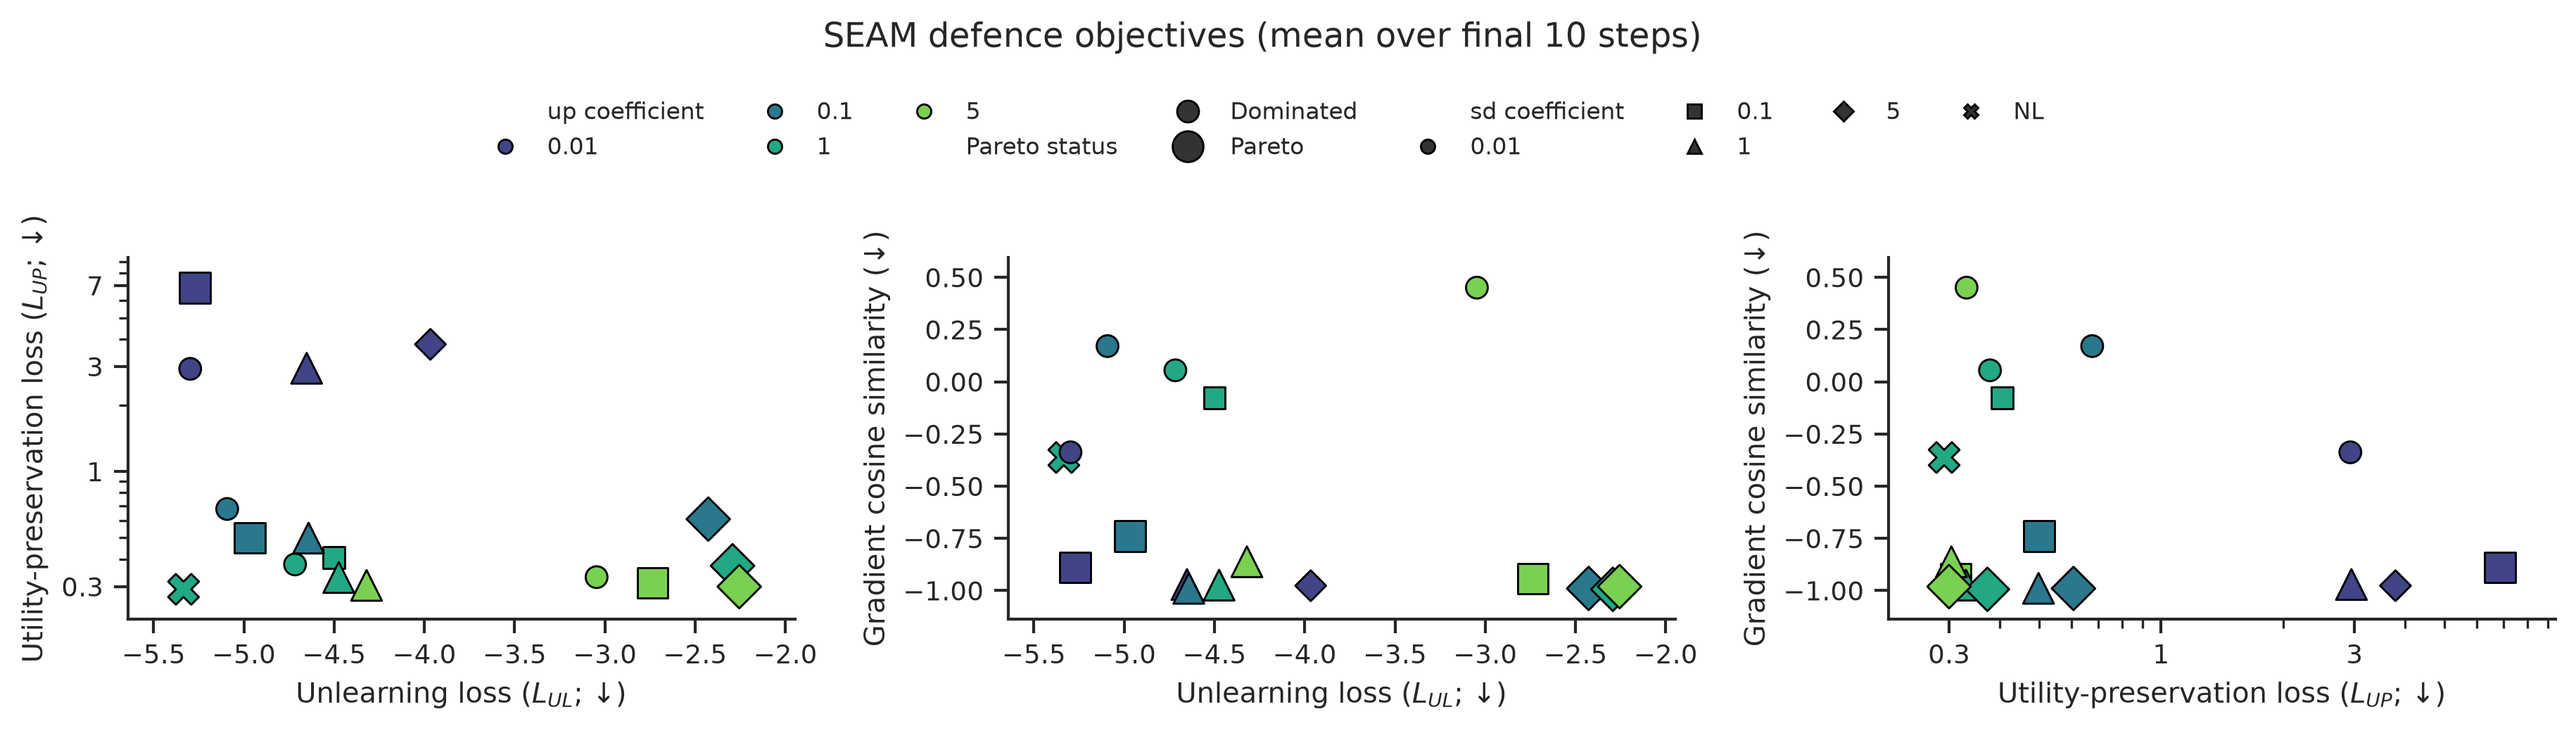
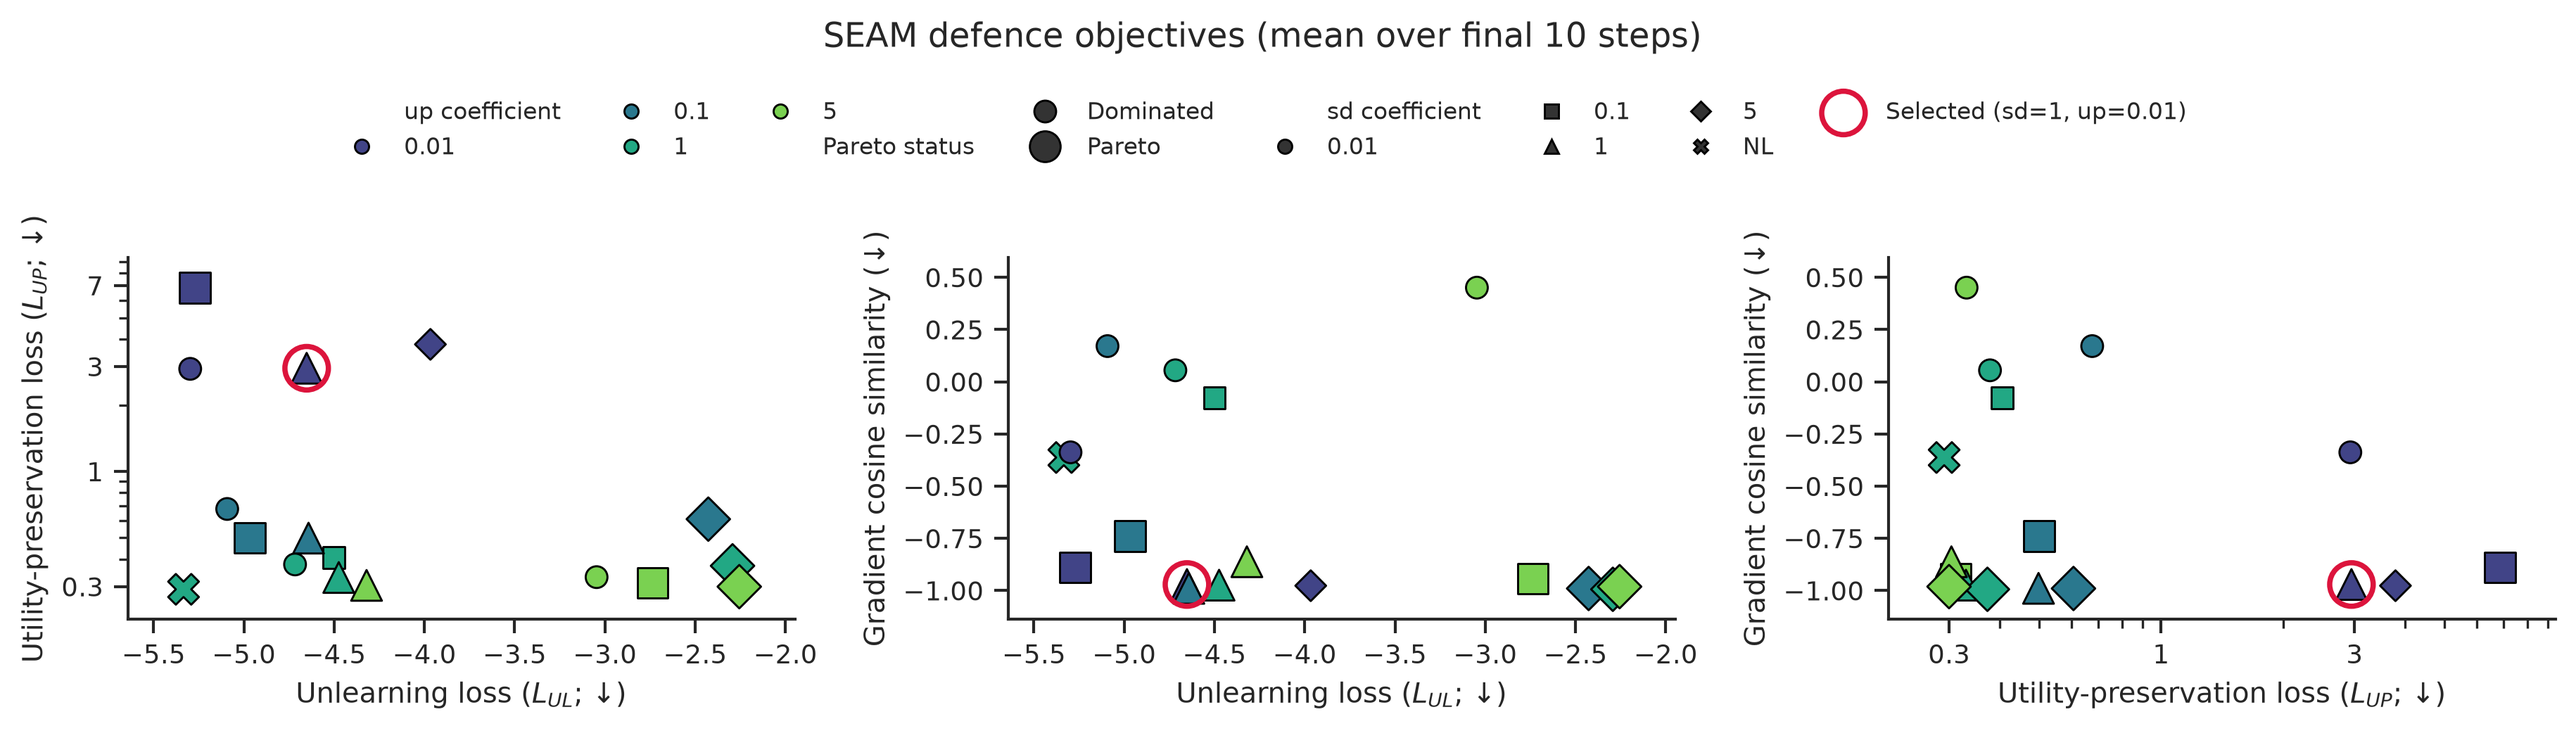
style: highlight selected SEAM configuration

diff --git a/scripts/misc/plot_seam_defence_pareto.py b/scripts/misc/plot_seam_defence_pareto.py
@@ -73,6 +73,13 @@ if __name__ == "__main__":
         lambda row: "NL" if row["Format"] == "NL" else f"{row['sd']:g}",
         axis=1,
     )
+    selected = df[
+        (df["Format"] == "SP")
+        & np.isclose(df["sd"], 1.0)
+        & np.isclose(df["up"], 0.01)
+    ]
+    if len(selected) != 1:
+        raise ValueError(f"Expected one selected configuration, found {len(selected)}")
 
     sns.set_theme(context="paper", style="ticks", font_scale=1.0)
     figure, axes = plt.subplots(1, 3, figsize=(12.5, 3.5))
@@ -98,6 +105,16 @@ if __name__ == "__main__":
             edgecolor="black",
             linewidth=0.7,
             ax=axis,
+        )
+        axis.scatter(
+            selected[x_metric],
+            selected[y_metric],
+            s=220,
+            facecolors="none",
+            edgecolors="crimson",
+            linewidths=1.8,
+            label="Selected (sd=1, up=0.01)",
+            zorder=3,
         )
         axis.set_xlabel(AXIS_LABELS[x_metric])
         axis.set_ylabel(AXIS_LABELS[y_metric])
